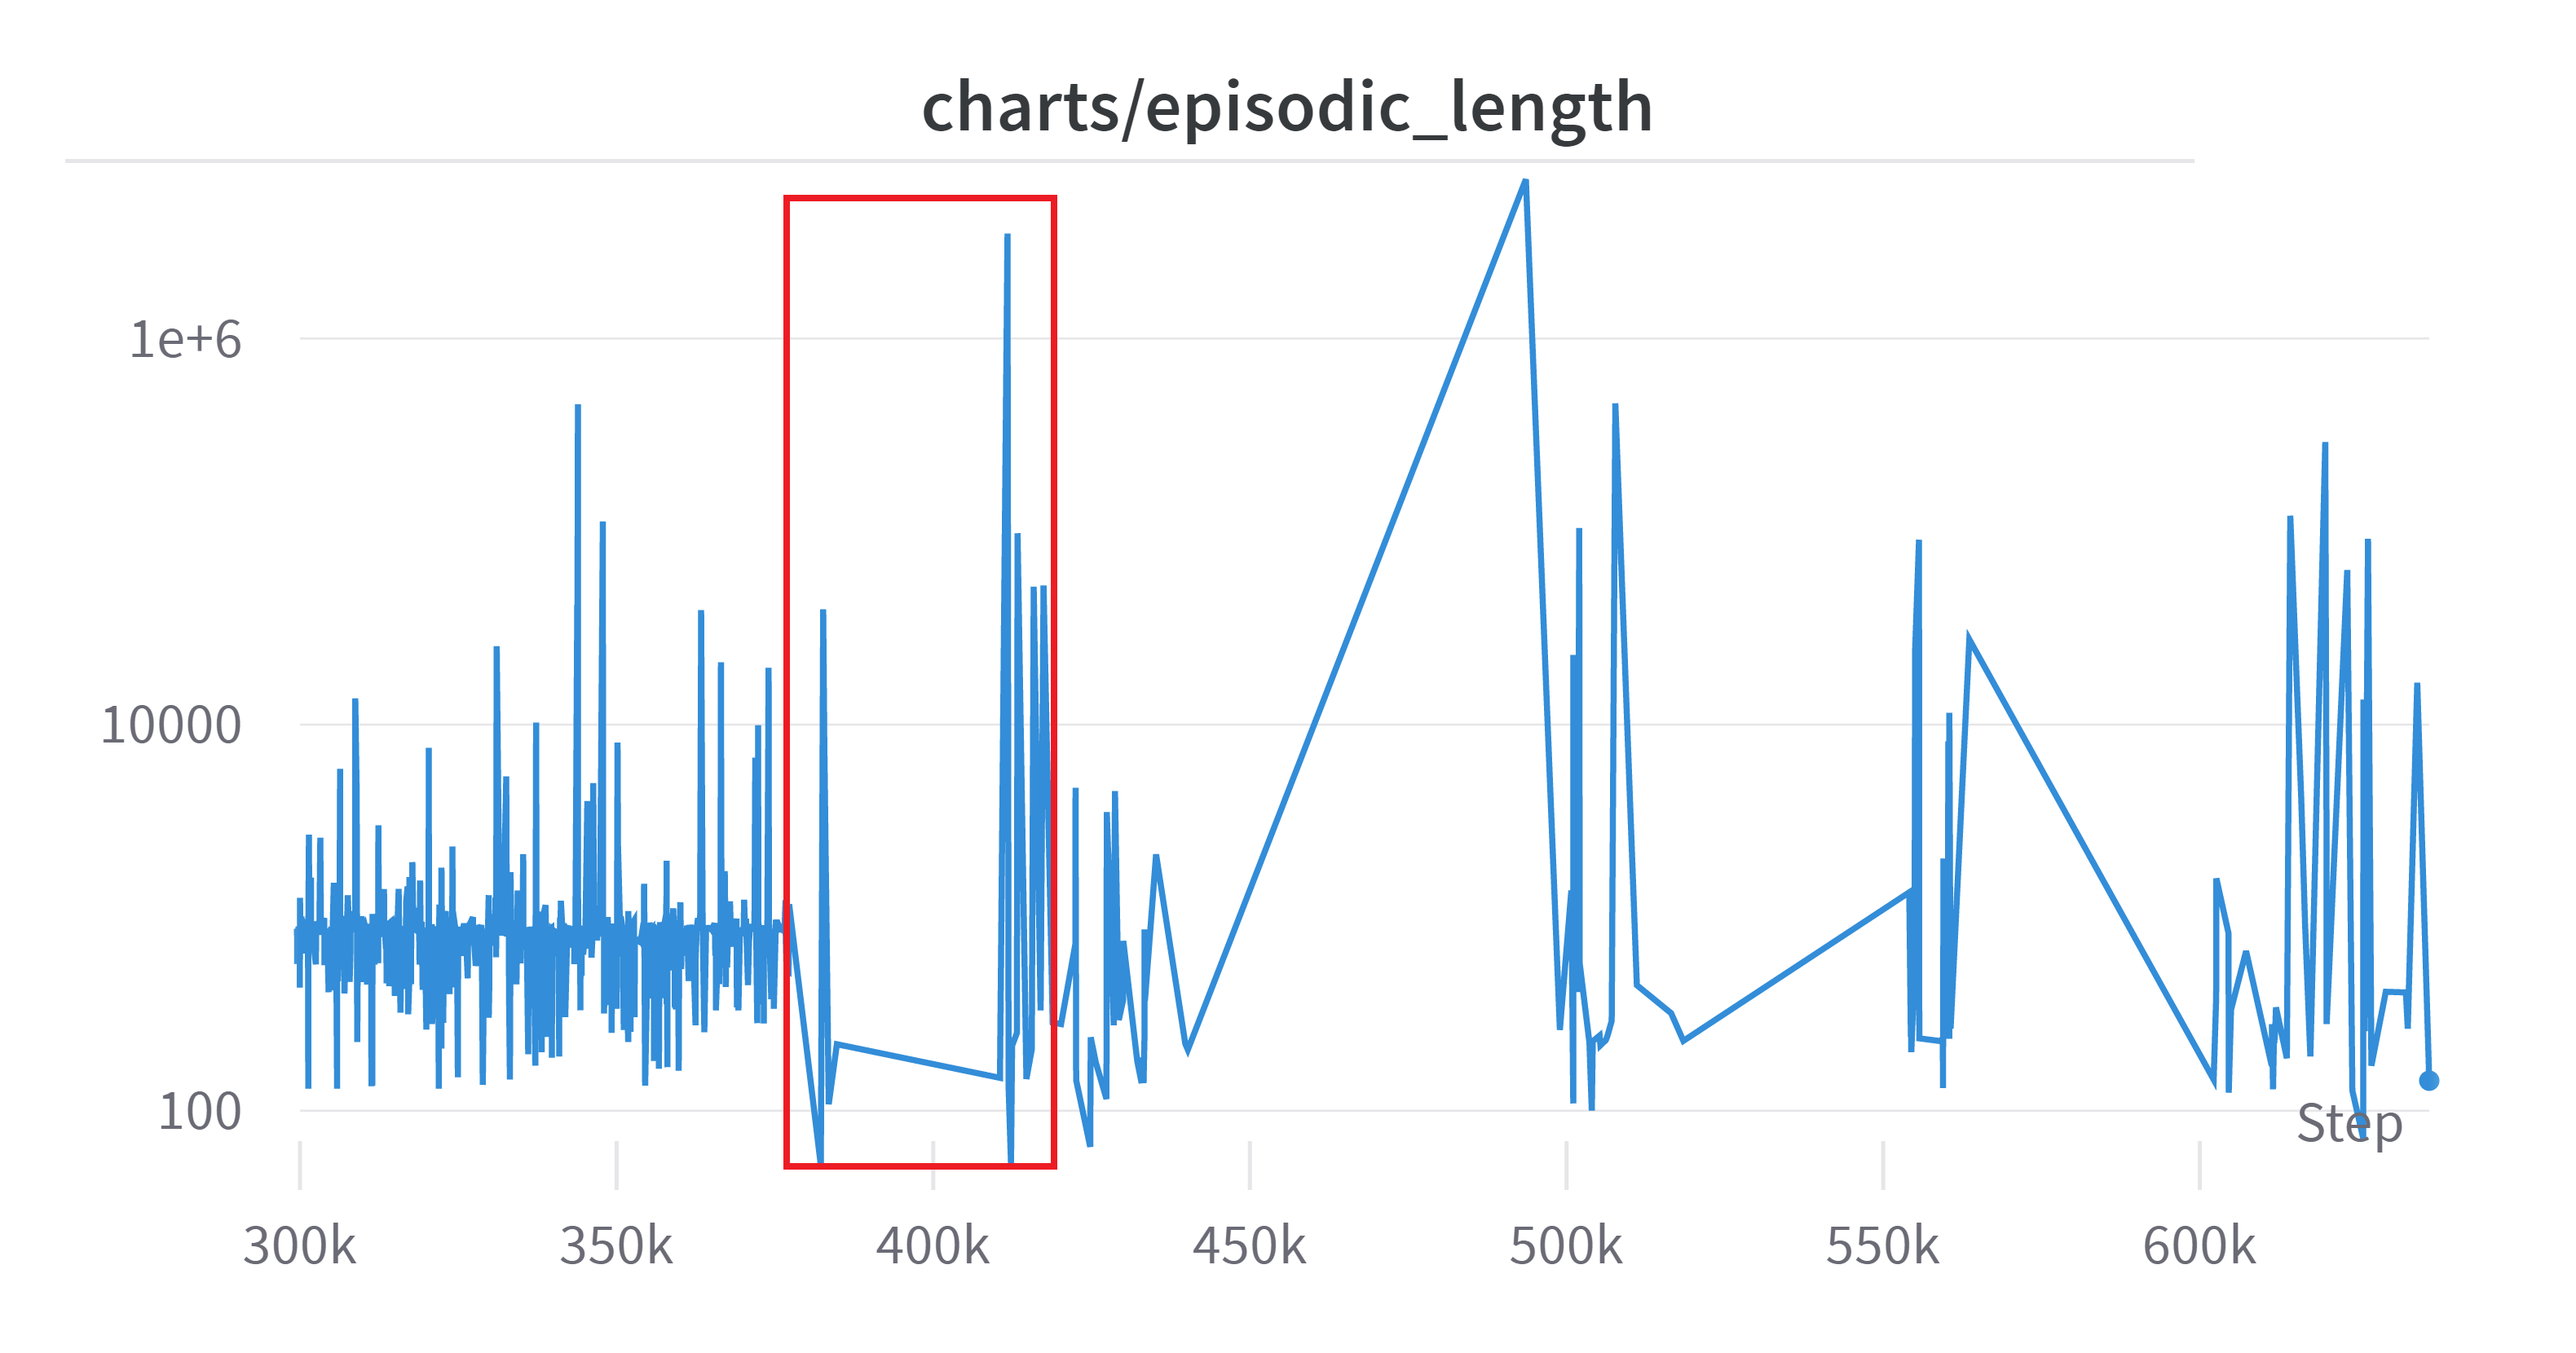
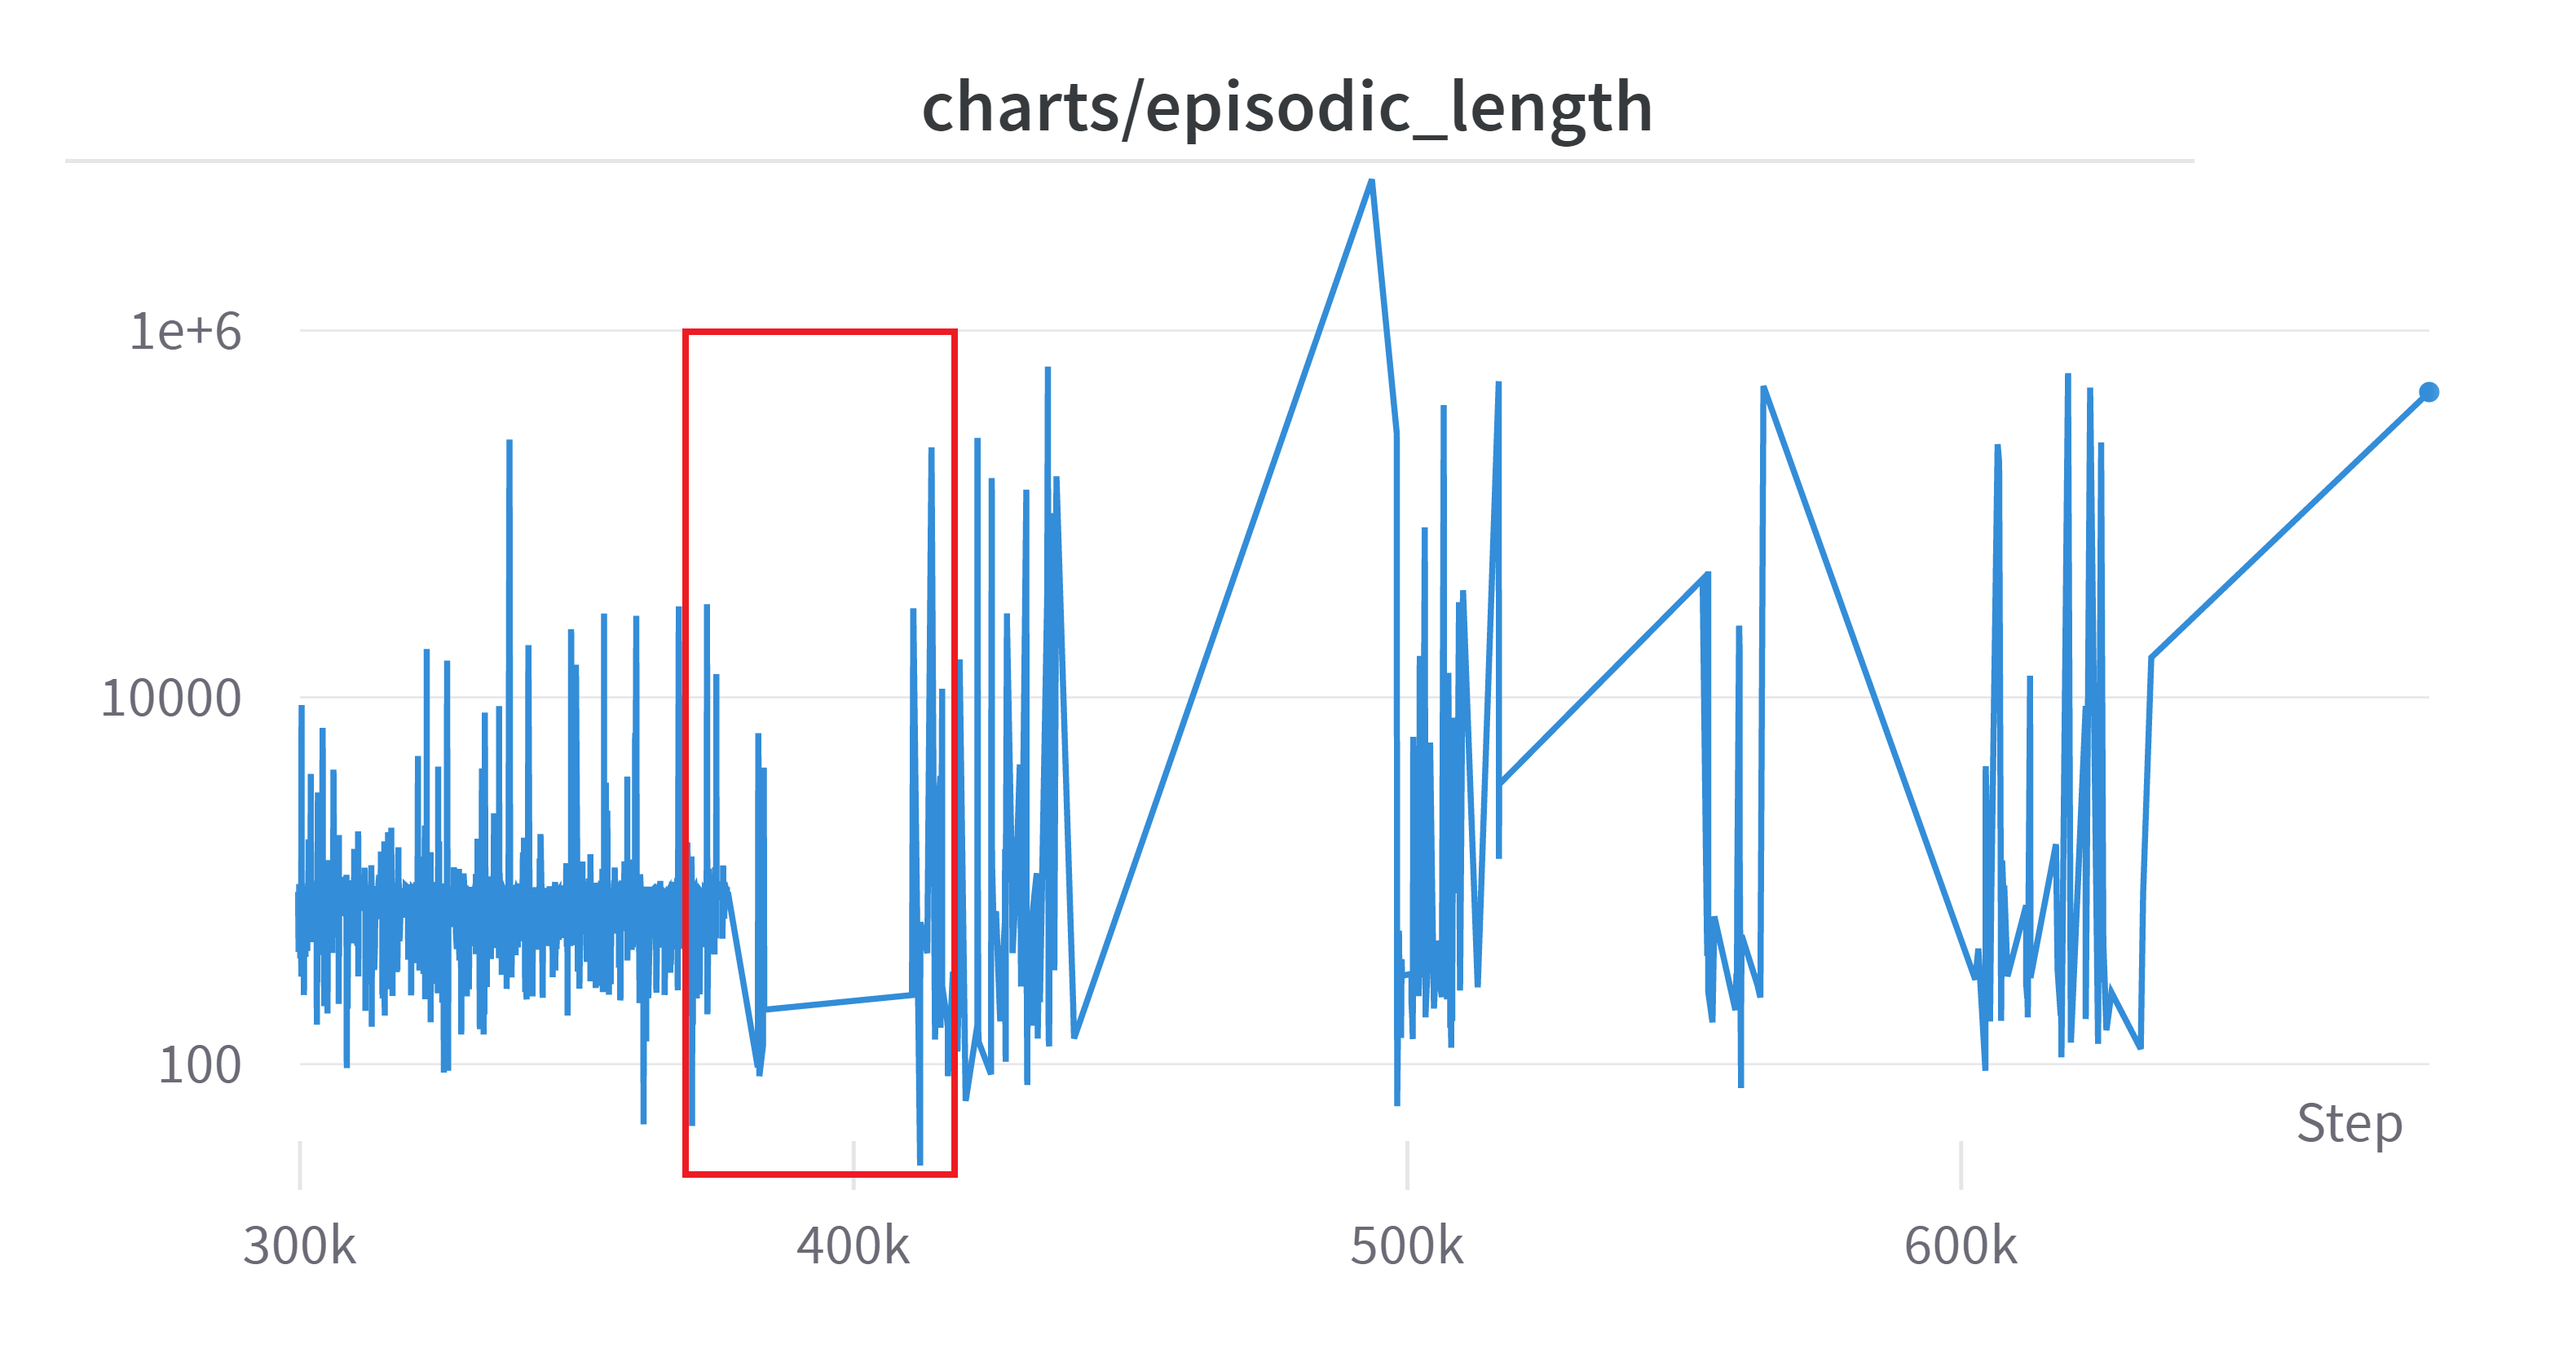
update game2048 t_a_y, change image

diff --git a/_posts/RL/2023-05-19-game2048_trial_and_error.md b/_posts/RL/2023-05-19-game2048_trial_and_error.md
@@ -2,7 +2,7 @@
 layout: single
 title: "2048 게임 강화학습 도전기"
 date: 2023-05-19 22:18:12
-lastmod : 2023-05-30 18:25:46
+lastmod : 2023-05-31 13:12:44
 categories: RL
 tag: [RL, PPO, '2048']
 toc: true
@@ -300,7 +300,7 @@ PPO의 보상추정이랑, 행동 선택 이유를 추적하는 방법을 공부
 턱에 걸리는 상황을 방지하기 위해 [**9. 새로운 실험 설계**](#9-새로운-실험-설계) 에서 0.001의 보상을 뺐다. 그런데 다음과 같은 상황이 일어났다.
 
 ![gym-game2048-20](../../assets/images/rl/gym_game2048/gym-game2048-20.png){: width="80%" height="80%" class="align-center"}
-<p style="text-align: center; font-style: italic;"> (Exponential Moving Average: 0.5) </p>
+<p style="text-align: center; font-style: italic;"> (Log Scale, Exponential Moving Average: 0.5) </p>
 
 갑자기 Return이 급락해서 다른 그래프를 보니 다음과 같았다. 300K 이후부터 확대해 보았다.
 
@@ -313,22 +313,22 @@ PPO의 보상추정이랑, 행동 선택 이유를 추적하는 방법을 공부
 
 해당 시간에 나온 값들을 살펴보면 다음과 같다.
 
-![gym-game2048-22](../../assets/images/rl/gym_game2048/gym-game2048-22.png){: width="50%" height="50%" class="align-center"}
-<p style="text-align: center; font-style: italic;"> 측정되지 않은 episode 가 있을 수 있음 </p>
+![gym-game2048-22](../../assets/images/rl/gym_game2048/gym-game2048-22.png){: width="80%" height="80%" class="align-center"}
 
-확실히 350K~420K 부분에서 엄청난 시간을 소모했고 그것으로 인하여 episodic_return 또한 엄청난 음수값을 가진 것을 볼 수 있다. 그 뒤에서도 발산하면서 학습이 망가진 것을 볼 수 있다. 숫자들이 거의다 400K 이상이다.
+확실히 350K~420K 부분에서 "갑자기" 엄청난 시간을 소모했고 그것으로 인하여 episodic_return 또한 엄청난 음수값을 가진 것을 볼 수 있다. 그 뒤에서도 발산하면서 학습이 망가진 것을 볼 수 있다. 한 에피소드의 길이가 엄청나게 늘어나는 것을 볼 수 있다.
 
 내가 생각하는 학습의 흐름은 다음과 같다.
 
-0. 일단 해당 학습은 그전에 학습된 weight를 이어서 학습한 것이다.
-1. 이전에도 비정상적인 episode_length 가 있었을 것이다.
-2. 하지만 학습이 진행되면서 근사의 정확도가 높아졌고 어떤 행동에 대한 확률이 상당히 높게 측정되었을 것이다. (PPO, Policy-based)
-3. 어떤 상태에서 해당 행동을 엄청나게 시도했을 것이다. 하지만 해당 행동은 Illegal Action이었다.
-4. 3M의 step동안 -0.001의 보상만 계속 받았을 것이고 discount 없이 누적된 return은 -600을 넘어갔다. 이렇게 엄청나게 오랜 시간동안 의미없는 행동에 대해서 음의 보상만 계속 주어지고 그것의 한도가 없으니 (양의 보상은 그전에 클리어가 되기 때문에 한계가 있다, episodic_return의 최대값은 238이었다.) 신경망을 망가뜨렸다.
-5. 망가진 신경망이 복구가 되지 않고 이후로 회복이 되지 않아 계속해서 학습을 망가뜨렸다.
+1. 일단 해당 학습은 그전에 학습된 weight를 이어서 학습한 것이다.
+2. 이전에도 비정상적인 episode_length 가 있었을 것이다.
+3. 하지만 학습이 진행되면서 근사의 정확도가 높아졌고 어떤 행동에 대한 확률이 상당히 높게 측정되었을 것이다. (PPO, Policy-based)
+4. 어떤 상태에서 해당 행동을 엄청나게 시도했을 것이다. 하지만 해당 행동은 Illegal Action이었다.
+5. 3M의 step동안 -0.001의 보상만 계속 받았을 것이고 discount 없이 누적된 return은 엄청난 음수를 만들었다. 이렇게 엄청나게 오랜 시간동안 의미없는 행동에 대해서 음의 보상만 계속 주어지고 그것의 한도가 없으니 (양의 보상은 그전에 클리어가 되기 때문에 한계가 있다, episodic_return의 최대값은 254이었다.) 신경망을 망가뜨렸다.
+6. 망가진 신경망이 복구가 되지 않고 이후로 회복이 되지 않아 계속해서 학습을 망가뜨렸다.
 
 이것으로 느낀 것은 다음과 같다.
 
-1. 생각보다 Illegal Action에 소비되는 step 수가 많다. 3M이면 블록 숫자가 2만 스폰 되었을 때 2048를 만들기 위해 1024 스텝이 필요한데 그것을 감안하면 학습을 약 3000에피소드는 더 할 수 있는 숫자이다.
+1. 생각보다 Illegal Action에 소비되는 step 수가 많다.
+   * episodic_length 표의 숫자들을 보면 알겠지만 엄청난 스텝이 의미없는 행동에 소요되고 있었다.
 2. **Illegal Action 행동에 대해서는 Terminate 하는 것이 무조건 나은 것 같다.**
 3. Return의 하한선도 생각해야겠다. 물론 PPO가 MC 기반의 방법은 아니지만 전체적으로 분산을 높이는데 일조한 것 같다.
